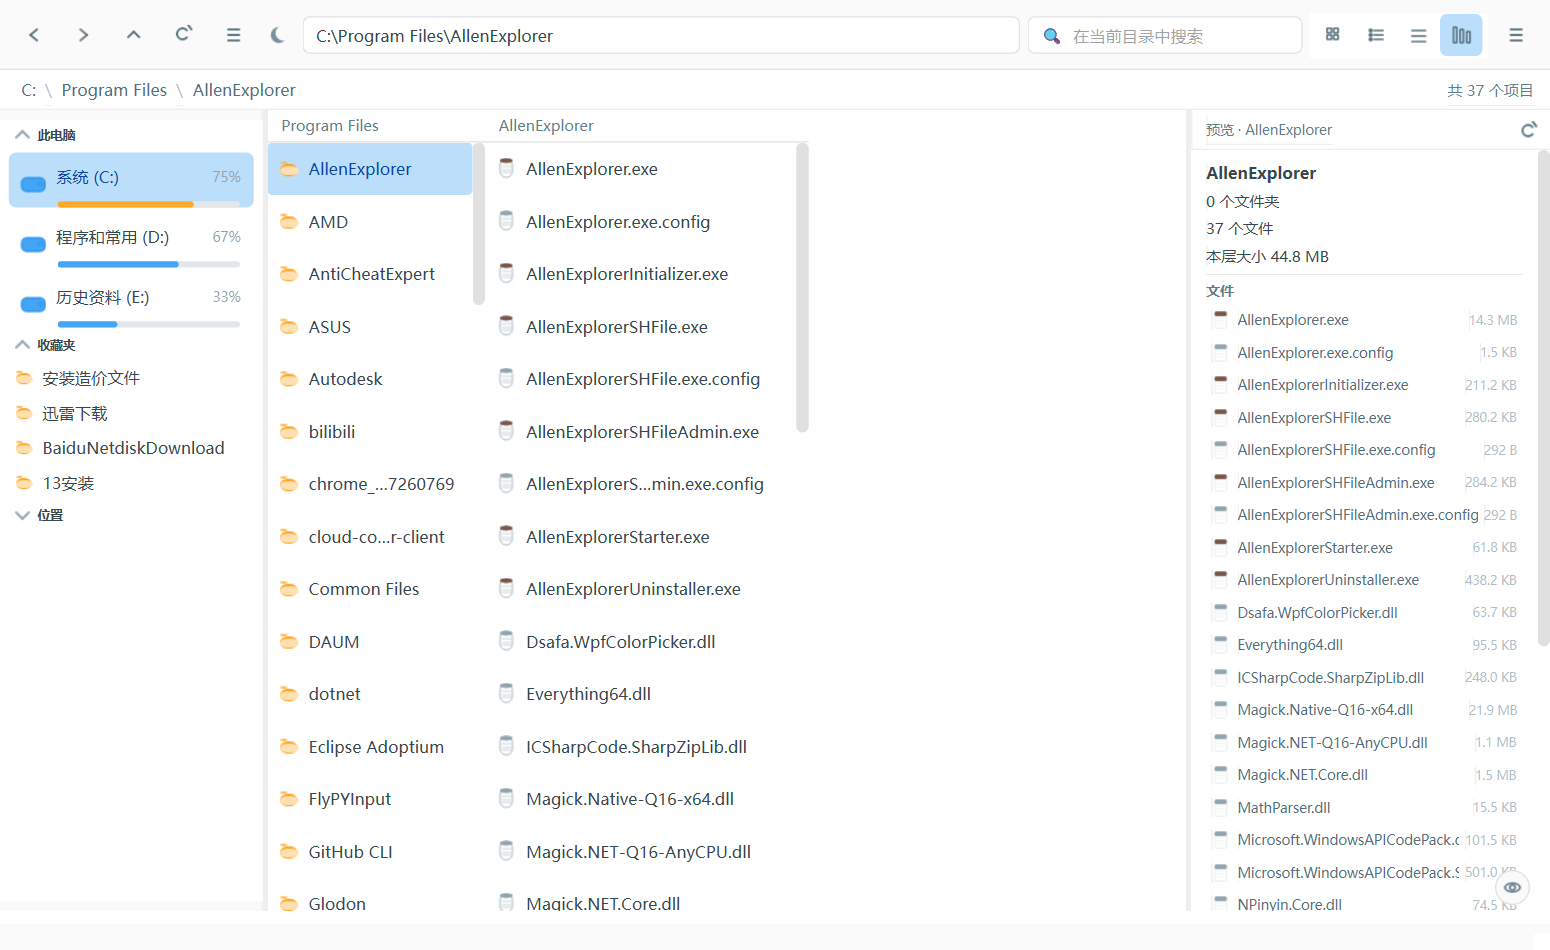
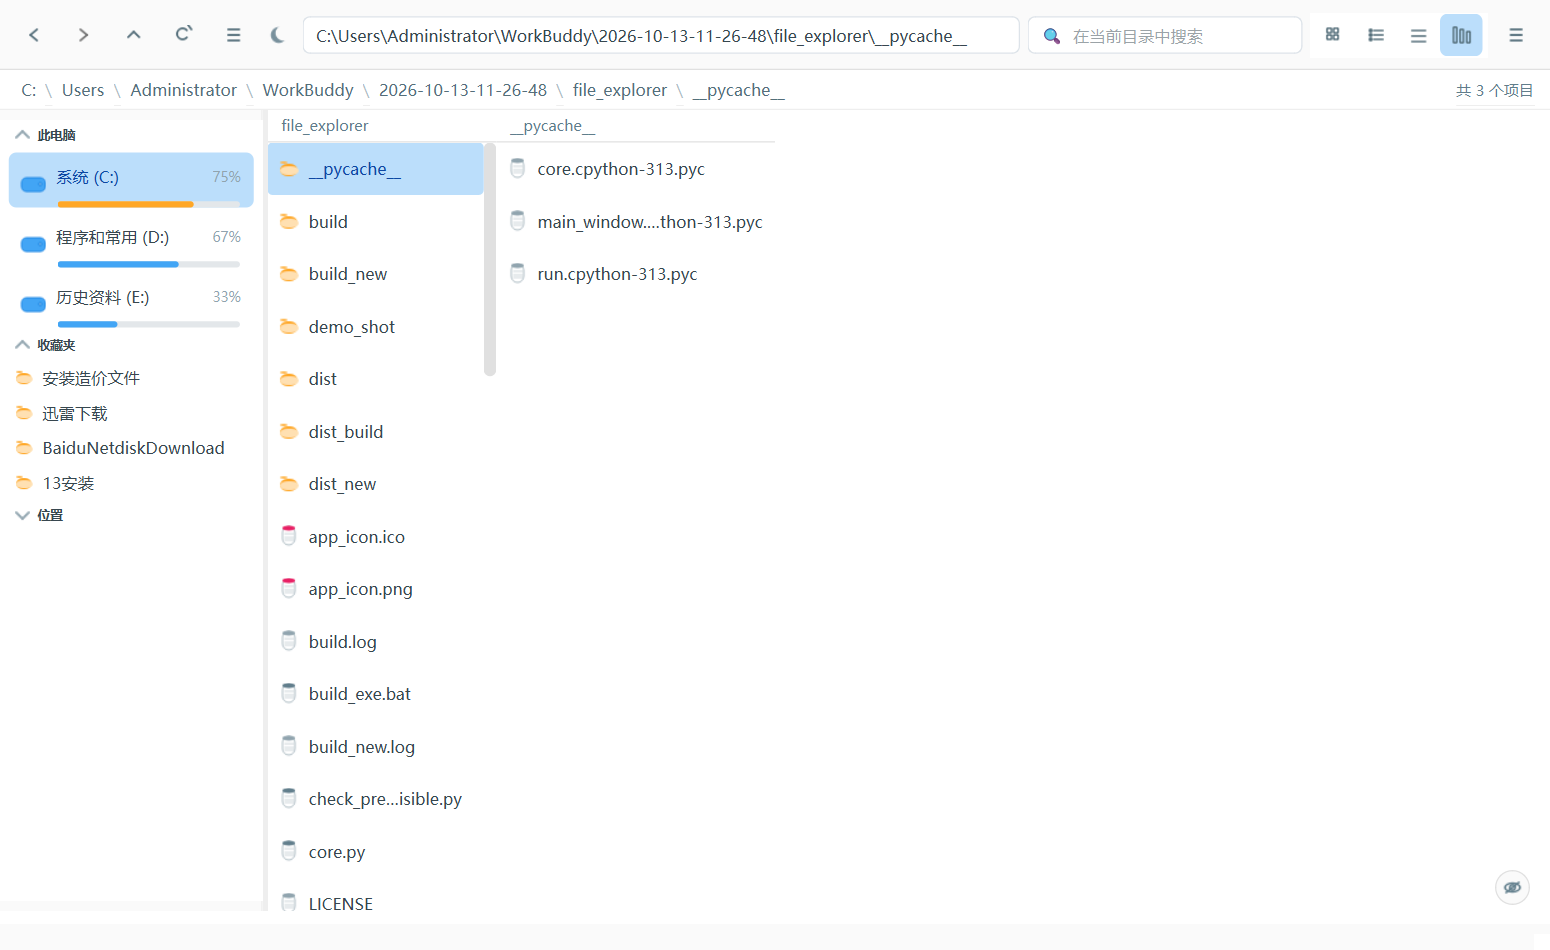
feat: 级联视图默认收起预览窗格
级联要横着摆好几列，预览占着 220px+ 会挤掉一列的位置。切到级联时
自动关预览，把宽度让给列表；用户仍可点右下角按钮或按 F12 手动打开。

- set_view 里对 VIEW_CASCADE 调 toggle_preview()，复用既有关闭路径
  （隐藏窗格、刷新开关图标、取消后台扫描）
- smoke_test 增一条断言：切到级联后 preview_enabled 为 False；
  后续预览宽度用例前补一次手动打开，避免被上一步的自动关闭带偏（113 项）

diff --git a/smoke_test.py b/smoke_test.py
@@ -82,6 +82,8 @@ def main():
     w.set_view(w.VIEW_CASCADE)
     app.processEvents()
     check("级联是第 4 种视图", w.VIEW_CASCADE == 3)
+    check("切到级联时预览窗格默认关闭", w.preview_enabled is False,
+          w.preview_enabled)
     check("工具栏有 4 个视图按钮", len(w._view_btns) == 4, len(w._view_btns))
     check("切到级联后显示级联控件", w.stack.currentWidget() is w.cascade)
     check("级联初始只有一列", len(w.cascade._cols) == 1, len(w.cascade._cols))
@@ -112,6 +114,8 @@ def main():
 
     # 预览窗格：宽度按当前列表条目名的 90% 覆盖来定
     w.set_view(w.VIEW_LIST)
+    if not w.preview_enabled:          # 上一步切级联时被自动关了
+        w.toggle_preview()
     w.navigate(tmp)
     app.processEvents()
     w._preview_manual = False

diff --git a/main_window.py b/main_window.py
@@ -2813,6 +2813,10 @@ class Explorer(QMainWindow):
 
     def set_view(self, mode: int):
         self.view_mode = mode
+        # 级联视图横着要摆好几列，预览窗格默认收起，把宽度让给列表。
+        # 用户进来后仍可点右下角按钮或按 F12 手动打开。
+        if mode == self.VIEW_CASCADE and self.preview_enabled:
+            self.toggle_preview()
         self._sync_view_buttons()
 
         self.list_table.setColumnHidden(1, mode != self.VIEW_DETAIL)

diff --git a/README.md b/README.md
@@ -17,6 +17,8 @@
 ## 更新日志
 
 ### 1.4
+- **级联视图默认关闭预览窗格**。级联要横着摆好几列，进这个视图时自动把预览收起来，
+  把宽度让给列表；想看得时候点右下角按钮或按 `F12` 随时打开。
 - **新增：右下角预览开关**。预览窗格右下角一个圆形眼睛按钮，一键收起／展开预览。
   窗格收起来后按钮仍留在原位（只是图标变成带斜杠的眼睛），
   不会出现"关了就没有入口"的情况。
@@ -125,6 +127,7 @@ python run.py
 - 侧栏随当前目录自动高亮所在盘（取最长路径匹配，不会被上级盘抢走）
 - `F9` 或工具栏的 ≡ 按钮收起/展开侧栏，分隔条可拖拽调宽（收起后按钮仍在工具栏，可随时恢复）
 - 四种视图：**大图标** / **列表** / **详细信息** / **级联**，按 `Space` 快速循环
+- 切到**级联**视图时自动收起预览窗格（横排多列需要宽度），可随时手动打开
 - 详细信息视图含名称、大小、类型、修改时间，点表头即排序
 - **级联视图**（Miller 列）：点文件夹在右侧展开新列，可逐级向右点开多层，
   每列带目录名列头；点同列别的文件夹会先收掉右侧多余的列。按 `F5` 刷新保留已展开层级
